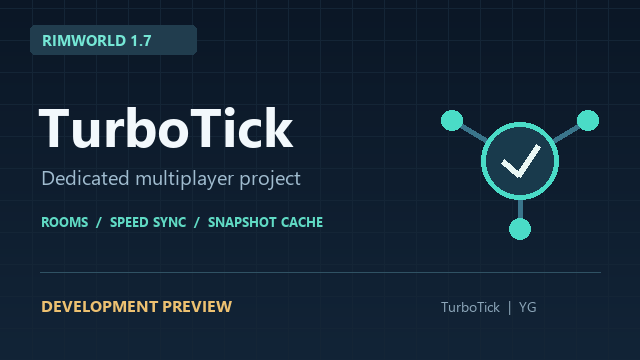
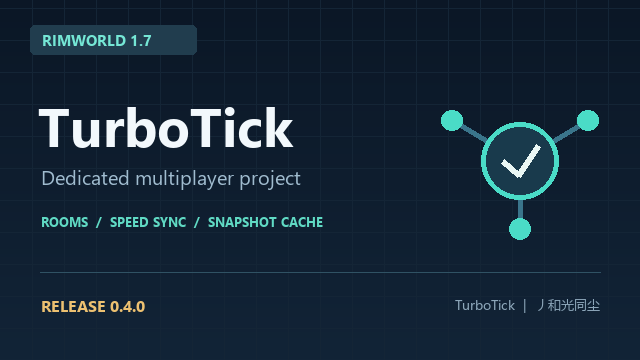
Update mod author to 丿和光同尘 and refresh workshop artwork

Changed region(s): [[0.0625, 0.825, 0.375, 0.8861], [0.6875, 0.825, 0.9375, 0.8861]]

diff --git a/scripts/create-brand-assets.py b/scripts/create-brand-assets.py
@@ -46,8 +46,14 @@ draw.text((38, 88), "TurboTick", font=font(54, True), fill=(242, 248, 252))
 draw.text((41, 163), "Dedicated multiplayer project", font=font(20), fill=(160, 188, 207))
 draw.text((41, 212), "ROOMS  /  SPEED SYNC  /  SNAPSHOT CACHE", font=font(13, True), fill=(96, 218, 196))
 draw.line((40, 272, 600, 272), fill=(48, 82, 100), width=1)
-draw.text((41, 294), "DEVELOPMENT PREVIEW", font=font(16, True), fill=(237, 193, 113))
-draw.text((441, 296), "TurboTick  |  YG", font=font(14), fill=(141, 167, 186))
+draw.text((41, 294), "RELEASE 0.4.0", font=font(16, True), fill=(237, 193, 113))
+try:
+    zh_font = ImageFont.truetype(str(Path(os.environ.get("WINDIR", "C:/Windows")) / "Fonts" / "msyh.ttc"), 13)
+except Exception:
+    zh_font = font(13)
+text = "TurboTick  |  丿和光同尘"
+w = zh_font.getlength(text)
+draw.text((int(600 - w), 296), text, font=zh_font, fill=(141, 167, 186))
 image.save(ABOUT / "Preview.png", optimize=True)
 icon = Image.new("RGB", (256, 256), (15, 32, 49))
 emblem(ImageDraw.Draw(icon), 128, 117, 86)
